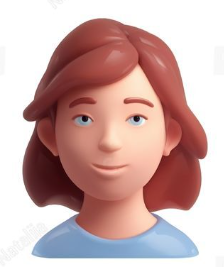
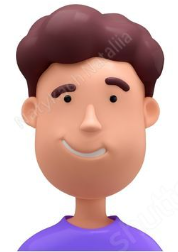
VAMOOOOOOS

diff --git a/Proyecto_nominas/cliente/src/views/Buscar.jsx b/Proyecto_nominas/cliente/src/views/Buscar.jsx
@@ -1,13 +1,15 @@
 import React, {useState, useEffect} from "react"
-import Box from '@mui/material/Box';
-import TextField from '@mui/material/TextField';
-import { mostrar_usuarios } from "../services/ServicioUsuarios";
+import { mostrar_usuarios, mostrar_usuarios_id } from "../services/ServicioUsuarios";
 import { useLoaderData } from 'react-router-dom'
+
 import B_nombre from '../components/B_nombre.component'
 import B_foto from '../components/B_foto.component'
 import B_cargo from '../components/B_cargo.component'
 import B_cedula from "../components/B_cedula.component";
-import List from "@mui/material/List";
+import Button from '@mui/material/Button';
+import Box from '@mui/material/Box';
+import TextField from '@mui/material/TextField';
+
 
 export async function loader() {
     const usuarios = await mostrar_usuarios()
@@ -35,7 +37,7 @@ export default function Buscar () {
   const [users, setUsers] = useState([usuarios]); 
   const [busqueda, setSearch] = useState("");
 
-  console.log(users);
+  //console.log(users);
 
   const informacion = async () => {
     
@@ -47,6 +49,15 @@ export default function Buscar () {
 
     setSearch(evento.target.value)
     
+  }
+
+   async function perfil (info)  {
+
+    const perfiles = await mostrar_usuarios_id('5');
+    console.log(info);
+    console.log(perfiles);
+
+
   }
 
   const resultados = !busqueda ? users : users?.filter((dato)=> dato.nombre.toLowerCase().includes(busqueda.toLocaleLowerCase()))
@@ -79,14 +90,17 @@ return (
            
           resultados?.map( (usuario) => (
              
+            
+
             <section className='contenedor'>
 
           <>
-              {console.log(usuario)}  
-              <B_foto      foto= {usuario.foto} />
+                {console.log(usuario.id)}    
+              <B_foto      foto= {usuario.logo} />
               <B_nombre   nombre = {usuario.nombre + ' ' +usuario.apellido} />
               <B_cargo     cargo={usuario.cargo?.nombre_puesto} />
-              <B_cedula    cedula={usuario.cedula}/>
+              <B_cedula    cedula={usuario.cedula } tipo=  {usuario.tipo_documento}/>
+              <Button  variant="contained" className="Bboton"  href="#" onClick={perfil} >Modificar</Button>
 
            </>
                      

diff --git a/Proyecto_nominas/cliente/src/index.css b/Proyecto_nominas/cliente/src/index.css
@@ -9,19 +9,37 @@
 
 .BFoto{
 
-  grid-area: logo;
+  
+
+    grid-area: logo;
+    width: 5rem;
+    height: 5rem;
+    border-radius: 50%;
+  
+  
 
 }
 
 .Bnombre{
 
   grid-area: nombre;
+  font-weight: 800;
+  font-size: 3.6rem;
 }
 
 .Bcedula{
 
   grid-area: cedula;
+  span{
+
+    font-weight: 700;
+
+  }
 }
+
+.Bboton{grid-area: boton;}
+
+
 
 .contenedor {
 
@@ -29,17 +47,17 @@
   width: 90%;
   grid-template-areas:
 
-    "logo nombre nombre"
-    "logo cargo cedula";
+    "logo nombre nombre boton"
+    "logo cargo cedula boton";
   ;
 
-  grid-template-columns: 1fr 1fr 1fr;
+  grid-template-columns: 0.3fr 1fr 1fr 0.3fr;
   grid-template-rows: 1fr 1fr;
 
  
   margin: 1rem 2rem;
   padding: 1rem;
-  height: 8rem;
+  height: 10rem;
   border-radius: 0.5rem;
 
 
@@ -47,7 +65,15 @@
   border-style: solid;
   border-width: 0.1rem;
   background-color: white;
+  align-items: center;
 
+
+}
+
+.Bboton{
+
+  height: 4rem;
+  width: 8rem;
 
 }
 
@@ -66,6 +92,12 @@
     box-shadow: 0px 0.8rem 0.8rem 0.4rem rgba(28, 60, 243, 0.36);
 
     cursor: pointer;
+
+    .BFoto, .Bcargo, .Bnombre, .Bcedula{
+
+      color: aliceblue;
+
+    }
 
 
   }

diff --git a/Proyecto_nominas/server/src/handlers/usuarios.js b/Proyecto_nominas/server/src/handlers/usuarios.js
@@ -19,6 +19,33 @@ export const consultar_usuarios = async (req, res) => {
     res.json({ data: usuario })
 }
 
+
+export const consultar_usuarios_id = async (req, res) => {
+
+    const {id} = req.params;
+
+    const usuarios = await Usuarios.findOne(
+        {where: {id: id},
+        include:[Cargos, Equipos],
+        attributes: {
+            exclude: [
+                'createdAt', 'updatedAt','contrasenia'
+            ]
+        }
+    
+    
+    });
+
+    if(!usuarios){
+        return res.status(404).json({error:'Usuario no encontrado'});
+    }
+
+    res.json({ data: usuarios});
+
+
+}
+
+
 export const crear_usuarios = async (req, res) => {
     const usuarios = await Usuarios.create(req.body);
     res.json({ data: usuarios })

diff --git a/Proyecto_nominas/server/src/routers/routerUsuarios.js b/Proyecto_nominas/server/src/routers/routerUsuarios.js
@@ -1,11 +1,13 @@
 import { Router } from "express";
-import { consultar_usuarios, crear_usuarios, eliminar_usuarios, modificar_usuarios } from "../handlers/usuarios.js";
+import { consultar_usuarios, crear_usuarios, eliminar_usuarios, modificar_usuarios, consultar_usuarios_id } from "../handlers/usuarios.js";
 import { body, param } from "express-validator";
 import { Errores } from "../middleware/index.js";
 
 const routerUsuarios = Router()
 
 routerUsuarios.get('/', consultar_usuarios);
+
+routerUsuarios.get('/:id',  param('id').isInt().withMessage('El id del usuario no existe'), Errores, consultar_usuarios_id);
 
 routerUsuarios.post('/',
     body('nombre').notEmpty().withMessage('El nombre del usuario es obligatorio'),

diff --git a/Proyecto_nominas/cliente/src/services/ServicioUsuarios.js b/Proyecto_nominas/cliente/src/services/ServicioUsuarios.js
@@ -14,3 +14,19 @@ export async function mostrar_usuarios() {
     }
 }
 
+
+export async function mostrar_usuarios_id(info) {
+    try {
+        const url = `${import.meta.env.VITE_URL_POST}/usuarios/${info}`
+        console.log(info)
+        console.log(url)
+        const { data } = await axios(url)
+        // const { data } = await axios.post(url)
+        // const { data } = await axios.put(url)
+        // const { data } = await axios.delete(url)
+
+        return data
+    } catch (error) {
+        console.log(error);
+    }
+}

diff --git a/Proyecto_nominas/cliente/src/components/B_foto.component.jsx b/Proyecto_nominas/cliente/src/components/B_foto.component.jsx
@@ -5,8 +5,8 @@ export default function B_foto(info){
 
     return (
         <>
-     
-        {<img className='logoCSS' src={'#'} alt='logo' />}
+
+        {<img className='BFoto'  src= {'../public/avatar_'+ info.foto +'.png'} alt='logo' />}
       
         </>
 

diff --git a/Proyecto_nominas/cliente/src/components/B_cedula.component.jsx b/Proyecto_nominas/cliente/src/components/B_cedula.component.jsx
@@ -6,7 +6,7 @@ export default function B_cedula(info){
 
     return (
 
-        <p className='Bcedula'>{info.cedula}</p>
+        <p className='Bcedula'>  <span> {info.tipo}: </span> {info.cedula}</p>
     )
 
 

diff --git a/Proyecto_nominas/cliente/src/views/Perfil.jsx b/Proyecto_nominas/cliente/src/views/Perfil.jsx
@@ -1,0 +1,7 @@
+import React, {useState, useEffect} from "react"
+import { mostrar_usuarios } from "../services/ServicioUsuarios";
+import { useLoaderData } from 'react-router-dom'
+
+
+
+

diff --git a/Proyecto_nominas/cliente/src/components/B_nombre.component.jsx b/Proyecto_nominas/cliente/src/components/B_nombre.component.jsx
@@ -6,7 +6,7 @@ export default function B_nombre(info){
 
     return (
 
-        <h2>{info.nombre}</h2>
+        <h2 className='Bnombre' >{info.nombre}</h2>
     )
 
 
